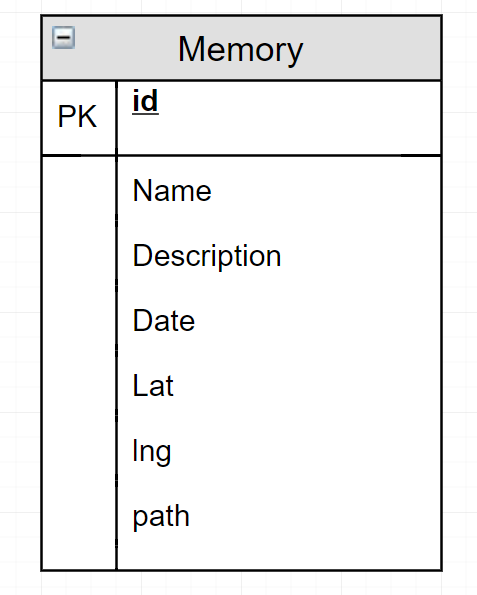
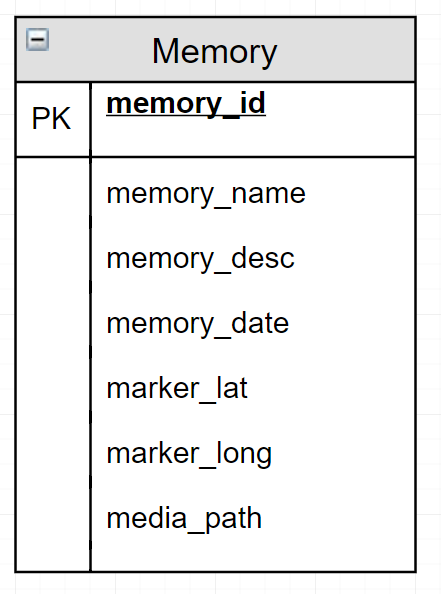
updated the design/the code for the database

Changed region(s): [[0.0295, 0.0, 0.9433, 0.9697], [0.4717, 0.7273, 0.619, 0.7879], [0.4717, 0.6364, 0.5601, 0.697]]

diff --git a/app/src/main/java/com/example/triptracker/DatabaseHelper.java b/app/src/main/java/com/example/triptracker/DatabaseHelper.java
@@ -11,14 +11,14 @@ import android.util.Log;
 public class DatabaseHelper extends SQLiteOpenHelper {
     private static final String TAG = "DatabaseHelper";
     private static final String TABLE_NAME = "Memory";
-    private static final String TABLE_NAME_VIDEOS = "Videos";
-    private static final String TABLE_NAME_PICTURE = "Picture";
-    private static final String COL_NAME = "Name";
-    private static final String COL_ID = "ID";
-    private static final String COL_DATE = "Date";
-    private static final String COL_DESCRIPTION = "Description";
-    private static final String COL_PATH = "path";
+    private static final String COL_MEMORY_NAME = "memory_name";
     private static final String COL_MEMORY_ID = "memory_id";
+    private static final String COL_MEMORY_DATE = "memory_date";
+    private static final String COL_MEMORY_DESCRIPTION = "memory_description";
+    private static final String COL_MEDIA_PATH = "media_path";
+    private static final String COL_MARKER_LAT = "marker_lat";
+    private static final String COL_MARKER_LONG = "marker_long";
+
 
     /*
     constructor is getting used when i implement the one to many relation thats why the error at super
@@ -30,15 +30,8 @@ public class DatabaseHelper extends SQLiteOpenHelper {
     @Override
     public void onCreate(SQLiteDatabase db) {
         String createTable = "CREATE TABLE " + TABLE_NAME + " (ID INTEGER PRIMARY KEY AUTOINCREMENT, " +
-                COL_NAME +" TEXT,"+ COL_DESCRIPTION + "TEXT," + COL_DATE + "TEXT)";
-        String createVideos = "CREATE TABLE " + TABLE_NAME_PICTURE + " (ID INTEGER PRIMARY KEY AUTOINCREMENT, " +
-                COL_PATH +" TEXT,"+ COL_MEMORY_ID + "INT,)";
-        String createPicture = "CREATE TABLE " + TABLE_NAME_VIDEOS + " (ID INTEGER PRIMARY KEY AUTOINCREMENT, " +
-                COL_PATH +" TEXT,"+ COL_MEMORY_ID + "INT,)";
+                COL_MEMORY_NAME +" TEXT,"+ COL_MEMORY_DESCRIPTION + "TEXT," + COL_MEMORY_DATE + "TEXT," + COL_MEDIA_PATH + "TEXT," + COL_MARKER_LAT + "REAL," + COL_MARKER_LONG + "REAL)";
         db.execSQL(createTable);
-        db.execSQL(createPicture);
-        db.execSQL(createVideos);
-
     }
 
     @Override
@@ -50,7 +43,7 @@ public class DatabaseHelper extends SQLiteOpenHelper {
     public boolean addData(String item) {
         SQLiteDatabase db = this.getWritableDatabase();
         ContentValues contentValues = new ContentValues();
-        contentValues.put(COL_NAME, item);
+        contentValues.put(COL_MEMORY_NAME, item);
         Log.d(TAG, "addData: Adding " + item + " to " + TABLE_NAME);
         long result = db.insert(TABLE_NAME, null, contentValues);
 
@@ -80,8 +73,8 @@ public class DatabaseHelper extends SQLiteOpenHelper {
      */
     public Cursor getItemID(String name){
         SQLiteDatabase db = this.getWritableDatabase();
-        String query = "SELECT " + COL_ID + " FROM " + TABLE_NAME +
-                " WHERE " + COL_NAME + " = '" + name + "'";
+        String query = "SELECT " + COL_MEMORY_ID + " FROM " + TABLE_NAME +
+                " WHERE " + COL_MEMORY_NAME + " = '" + name + "'";
         Cursor data = db.rawQuery(query, null);
         return data;
     }
@@ -94,9 +87,9 @@ public class DatabaseHelper extends SQLiteOpenHelper {
      */
     public void updateName(String newName, int id, String oldName){
         SQLiteDatabase db = this.getWritableDatabase();
-        String query = "UPDATE " + TABLE_NAME + " SET " + COL_NAME +
-                " = '" + newName + "' WHERE " + COL_ID + " = '" + id + "'" +
-                " AND " + COL_NAME + " = '" + oldName + "'";
+        String query = "UPDATE " + TABLE_NAME + " SET " + COL_MEMORY_NAME +
+                " = '" + newName + "' WHERE " + COL_MEMORY_ID + " = '" + id + "'" +
+                " AND " + COL_MEMORY_NAME + " = '" + oldName + "'";
         Log.d(TAG, "updateName: query: " + query);
         Log.d(TAG, "updateName: Setting name to " + newName);
         db.execSQL(query);
@@ -110,8 +103,8 @@ public class DatabaseHelper extends SQLiteOpenHelper {
     public void deleteName(int id, String name){
         SQLiteDatabase db = this.getWritableDatabase();
         String query = "DELETE FROM " + TABLE_NAME + " WHERE "
-                + COL_ID + " = '" + id + "'" +
-                " AND " + COL_NAME + " = '" + name + "'";
+                + COL_MEMORY_ID + " = '" + id + "'" +
+                " AND " + COL_MEMORY_NAME + " = '" + name + "'";
         Log.d(TAG, "deleteName: query: " + query);
         Log.d(TAG, "deleteName: Deleting " + name + " from database.");
         db.execSQL(query);
